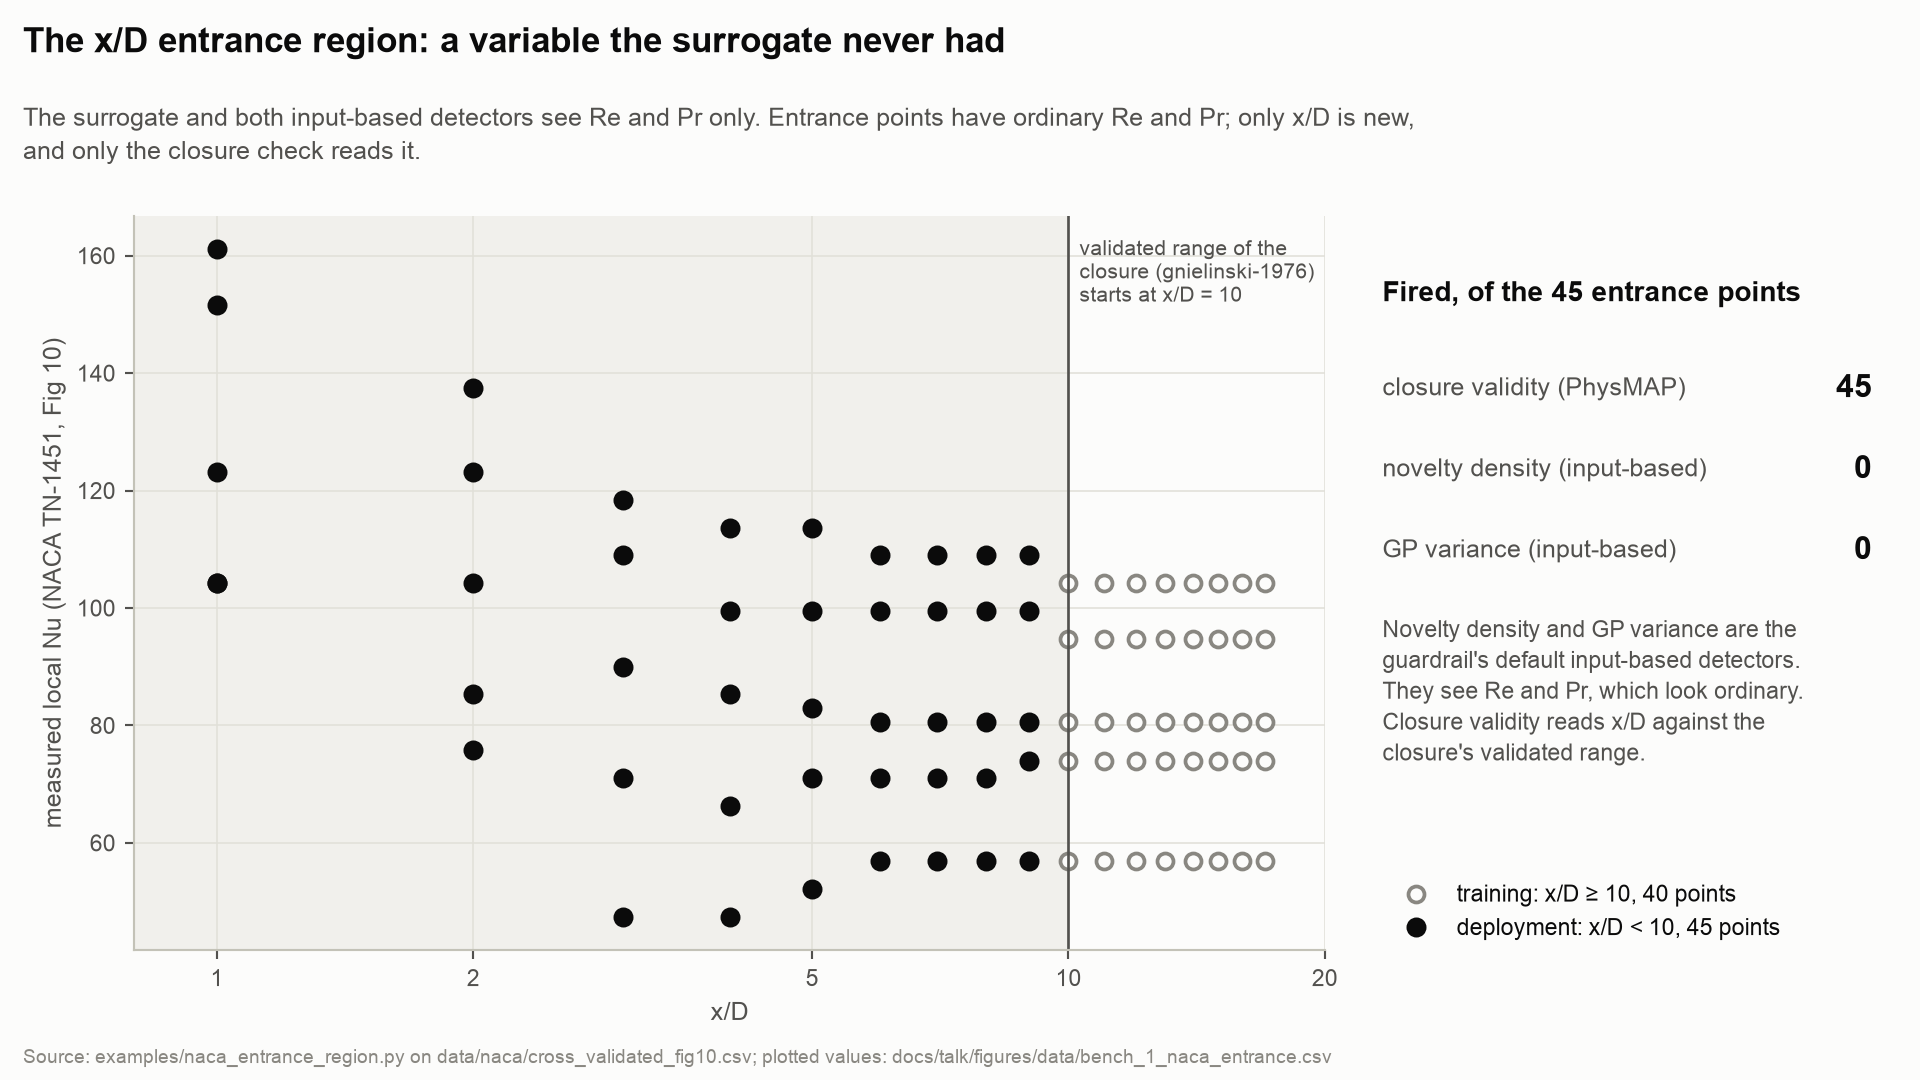
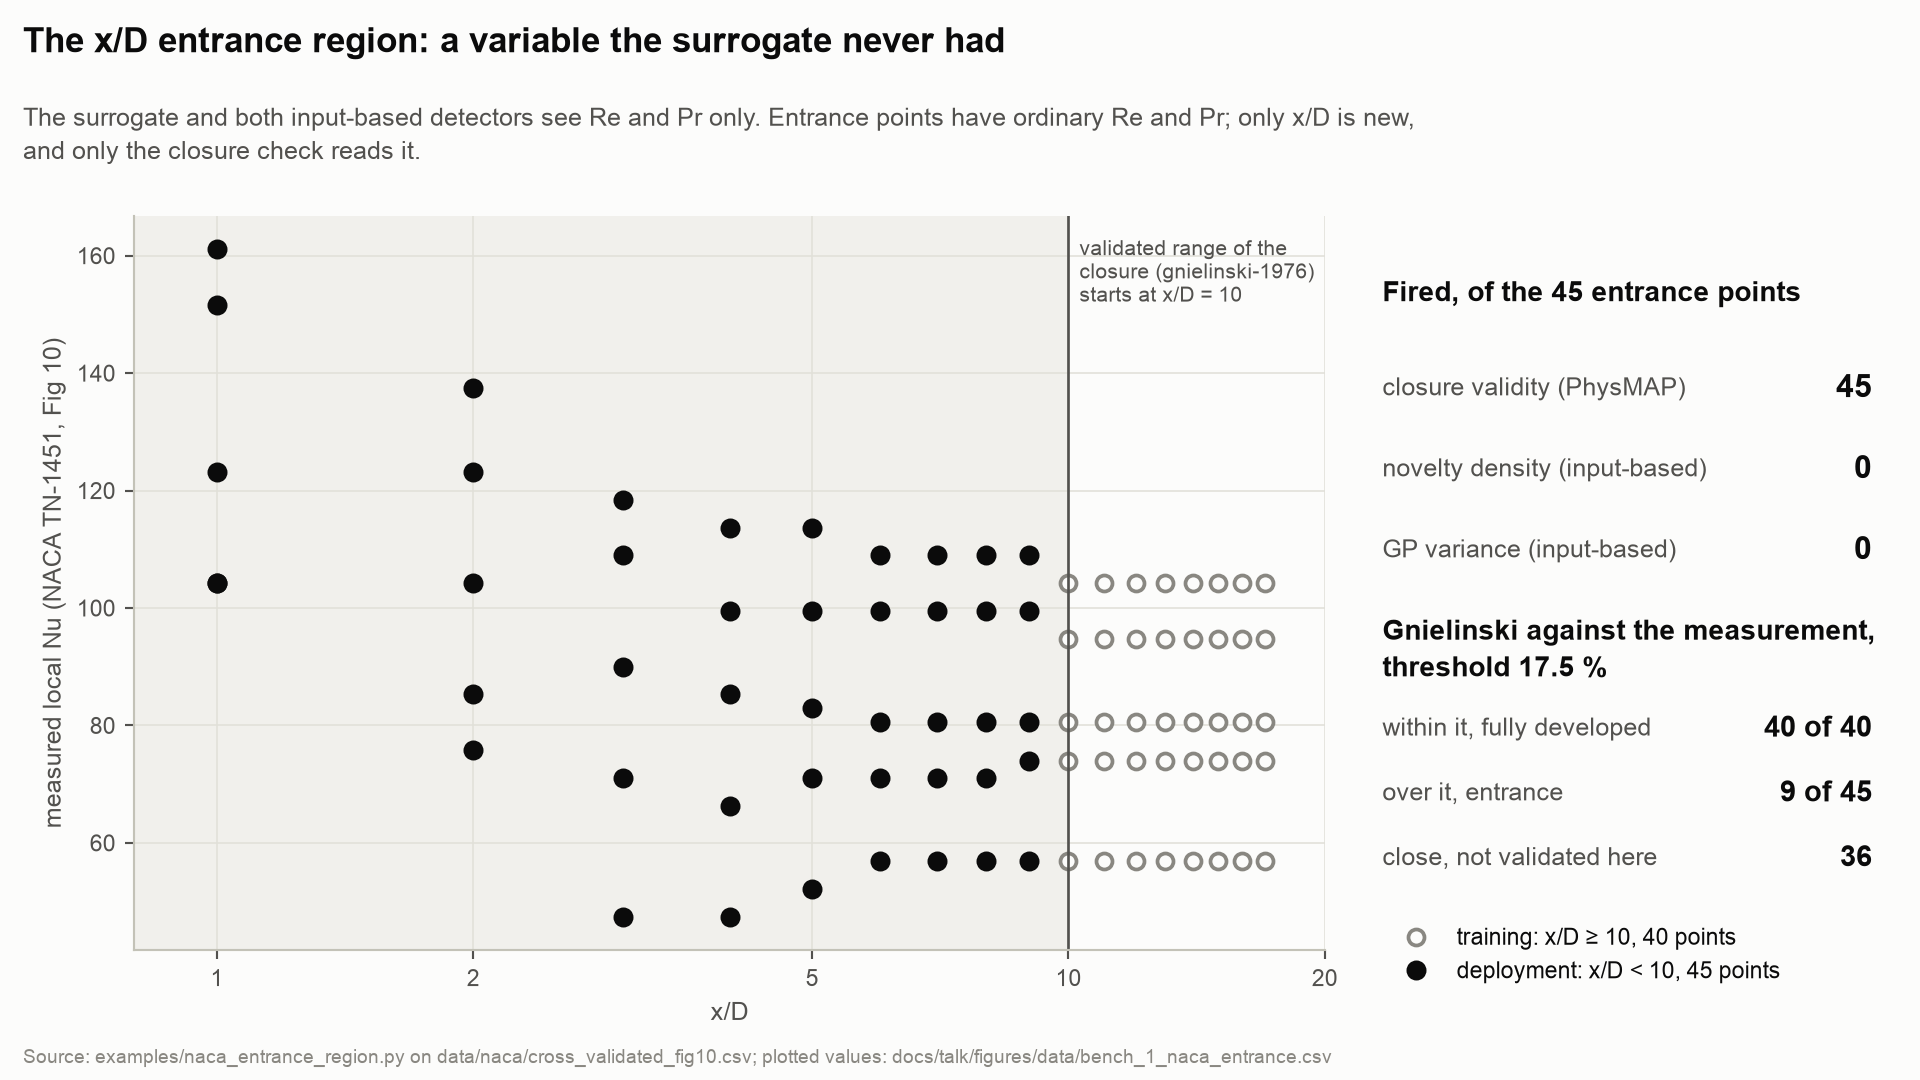
docs(talk): slide 4's figure shows the applicability counts; slide 8's says 'below'
bench_1 now carries Gnielinski against the measurement -- within the
threshold on 40 of 40 at home, over it on 9 of 45 at the entrance, 36
close but not validated there -- so slide 4 stands on its own. lewis_2
says the surrogate is 17-18 % below the measurement, and that the OOD
scores match because the visible inputs are identical.

Changed region(s): [[0.7188, 0.55, 0.9688, 0.9167]]

diff --git a/tools/talk_package.py b/tools/talk_package.py
@@ -836,7 +836,7 @@ def fig_control_vs_gravity_on(reg: _Reg, L: dict):
                         (s["x"], top), xytext=(9, -2), textcoords="offset points", fontsize=7.5,
                         color=INK["secondary"], va="top")
     ax.text(0.02, 0.05, f"gravity on, x/D {d('lewis.downstream_stations')}: "
-            f"{d('lewis.downstream_error_range_pct')} % off the measurement",
+            f"{d('lewis.downstream_error_range_pct')} % below the measurement",
             transform=ax.transAxes, fontsize=7.8, color=INK["primary"], va="bottom")
     ax.set_ylim(-34, top)
     ax.set_ylabel("%")
@@ -856,7 +856,8 @@ def fig_control_vs_gravity_on(reg: _Reg, L: dict):
         ax.plot(s["x"], s["dist_on"], "o", ms=4.2, color=INK["on"], zorder=4)
     ax.set_ylim(0, 0.5)
     ax.set_title("Input-based OOD detector: distance score", loc="left", weight="bold")
-    ax.text(0.22, 0.29, "gravity off (ring), gravity on (dot):\nthe same at every station",
+    ax.text(0.22, 0.29, "gravity off (ring), gravity on (dot): the same\nat every station — the "
+            "visible inputs are identical",
             fontsize=7.8, color=INK["secondary"], va="center")
     ax.text(0.985, 0.62, f"GP variance: max {d('lewis.ood.max_gp_all')},\n"
             f"fires above {d('lewis.ood.threshold_gp')}", transform=ax.transAxes, ha="right",
@@ -1044,7 +1045,7 @@ def fig_naca(reg: _Reg, N: dict):
     ax.set_xlabel("x/D")
     ax.set_ylabel("measured local Nu (NACA TN-1451, Fig 10)")
     fig.legend(*ax.get_legend_handles_labels(), loc="upper left",
-               bbox_to_anchor=(0.715, 0.2), fontsize=8.5)
+               bbox_to_anchor=(0.715, 0.16), fontsize=8.5)
     n = d("naca.n_entrance")
     fig.text(0.72, 0.74, f"Fired, of the {n} entrance points", fontsize=10.5, weight="bold",
              va="top")
@@ -1054,10 +1055,15 @@ def fig_naca(reg: _Reg, N: dict):
         y = 0.64 - i * 0.075
         fig.text(0.72, y, lab, fontsize=9.5, color=INK["secondary"], va="center")
         fig.text(0.975, y, d(key), fontsize=12, weight="bold", va="center", ha="right")
-    fig.text(0.72, 0.43, "Novelty density and GP variance are the\nguardrail's default "
-             "input-based detectors.\nThey see Re and Pr, which look ordinary.\nClosure "
-             "validity reads x/D against the\nclosure's validated range.", fontsize=8.5,
-             color=INK["secondary"], va="top", linespacing=1.45)
+    fig.text(0.72, 0.43, f"Gnielinski against the measurement,\nthreshold "
+             f"{d('naca.threshold_pct')} %", fontsize=10.5, weight="bold", va="top",
+             linespacing=1.3)
+    for i, (lab, key) in enumerate((("within it, fully developed", "naca.gn_home_within"),
+                                    ("over it, entrance", "naca.gn_entrance_exceed"),
+                                    ("close, not validated here", "naca.gn_acceptable_unsupported"))):
+        y = 0.325 - i * 0.06
+        fig.text(0.72, y, lab, fontsize=9.5, color=INK["secondary"], va="center")
+        fig.text(0.975, y, d(key), fontsize=11, weight="bold", va="center", ha="right")
     _save(fig, "bench_1_naca_entrance",
           f"{SRC['naca_example']} on {SRC['naca']}; plotted values: "
           "docs/talk/figures/data/bench_1_naca_entrance.csv")
@@ -1281,7 +1287,7 @@ def captions(reg: _Reg, L: dict, Bn: dict, N: dict) -> str:
             f"Four views of the same {d('lewis.n_stations')} stations of one run. Top left: the "
             f"surrogate's prediction, the gravity-off CFD control and Lewis's measurement. Top "
             f"right: the surrogate is within {d('lewis.control_error_max_abs_pct')} % of the "
-            f"control and {d('lewis.downstream_error_range_pct')} % off the measurement at x/D "
+            f"control and {d('lewis.downstream_error_range_pct')} % below the measurement at x/D "
             f"{d('lewis.downstream_stations')}. Bottom left: the OOD distance score — identical "
             f"in both states because the visible inputs are identical — and under its threshold "
             f"{d('lewis.ood.threshold_distance')} at the reference percentile {REF_PCT}, as is GP "

diff --git a/docs/talk/figures/README.md b/docs/talk/figures/README.md
@@ -16,7 +16,7 @@ The input contract. The surrogate and the input-based OOD detector both receive 
 
 ![Gravity-off control against gravity-on measurement, by position](lewis_2_control_vs_gravity_on.png)
 
-Four views of the same 12 stations of one run. Top left: the surrogate's prediction, the gravity-off CFD control and Lewis's measurement. Top right: the surrogate is within 0.06 % of the control and 17–18 % off the measurement at x/D 67.55, 101.69, 135.84. Bottom left: the OOD distance score — identical in both states because the visible inputs are identical — and under its threshold 0.408 at the reference percentile 99, as is GP variance (max 0.0101 against 0.050); at lower percentiles the detector fires, in both states alike. Bottom right: materiality, 0 with gravity off, up to 0.195 with gravity on. Materiality comes from the matched CFD pair, not from the measurement. Hollow markers: the three stations Lewis disowns — the first two for axial wall conduction, the last as suspect.
+Four views of the same 12 stations of one run. Top left: the surrogate's prediction, the gravity-off CFD control and Lewis's measurement. Top right: the surrogate is within 0.06 % of the control and 17–18 % below the measurement at x/D 67.55, 101.69, 135.84. Bottom left: the OOD distance score — identical in both states because the visible inputs are identical — and under its threshold 0.408 at the reference percentile 99, as is GP variance (max 0.0101 against 0.050); at lower percentiles the detector fires, in both states alike. Bottom right: materiality, 0 with gravity off, up to 0.195 with gravity on. Materiality comes from the matched CFD pair, not from the measurement. Hollow markers: the three stations Lewis disowns — the first two for axial wall conduction, the last as suspect.
 
 - Files: [`lewis_2_control_vs_gravity_on.svg`](lewis_2_control_vs_gravity_on.svg) (vector, editable) · [`lewis_2_control_vs_gravity_on.png`](lewis_2_control_vs_gravity_on.png) (1920 px)
 - Plotted values: [`data/lewis_2_control_vs_gravity_on.csv`](data/lewis_2_control_vs_gravity_on.csv)
